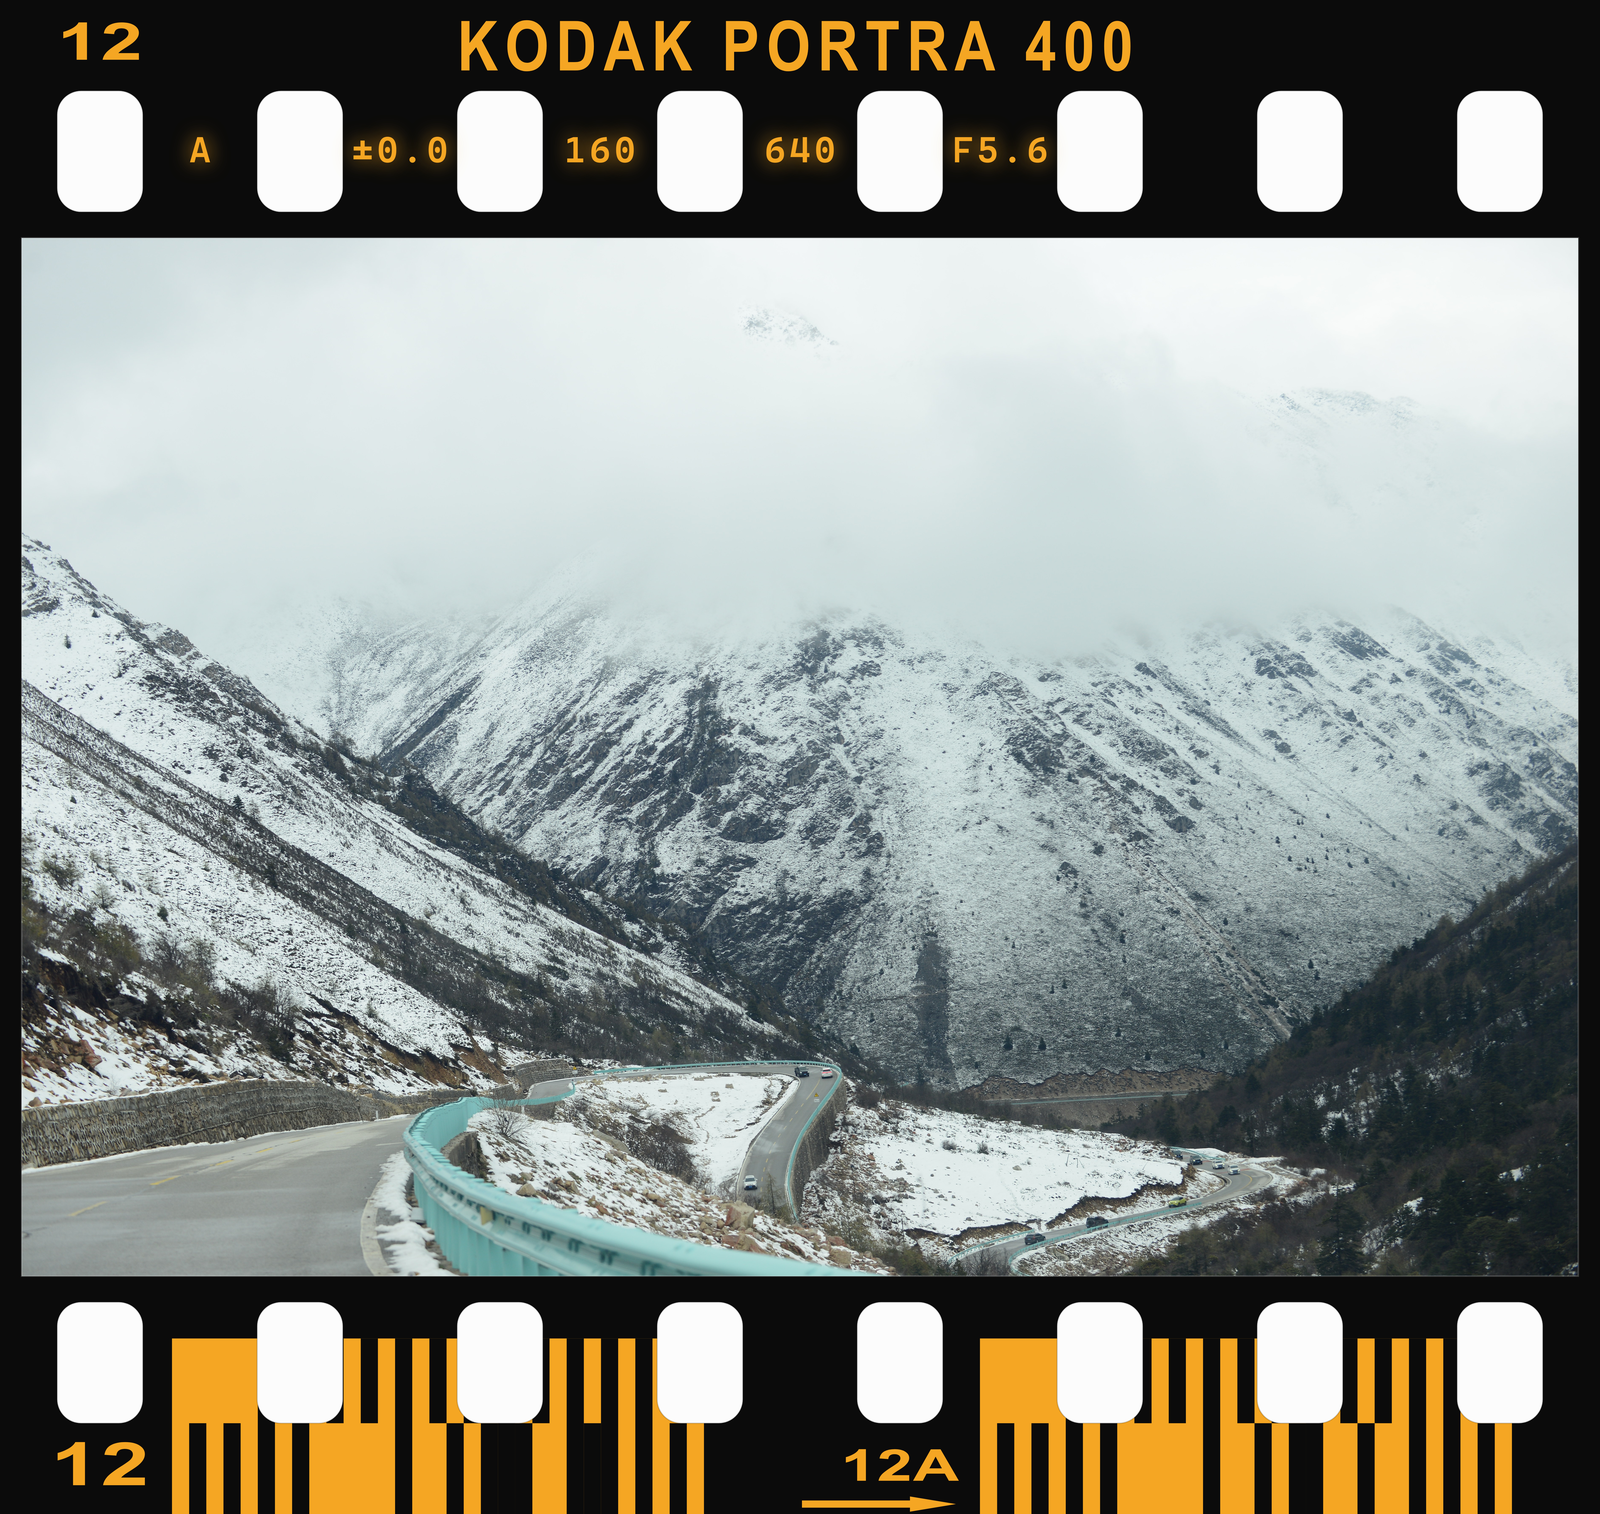
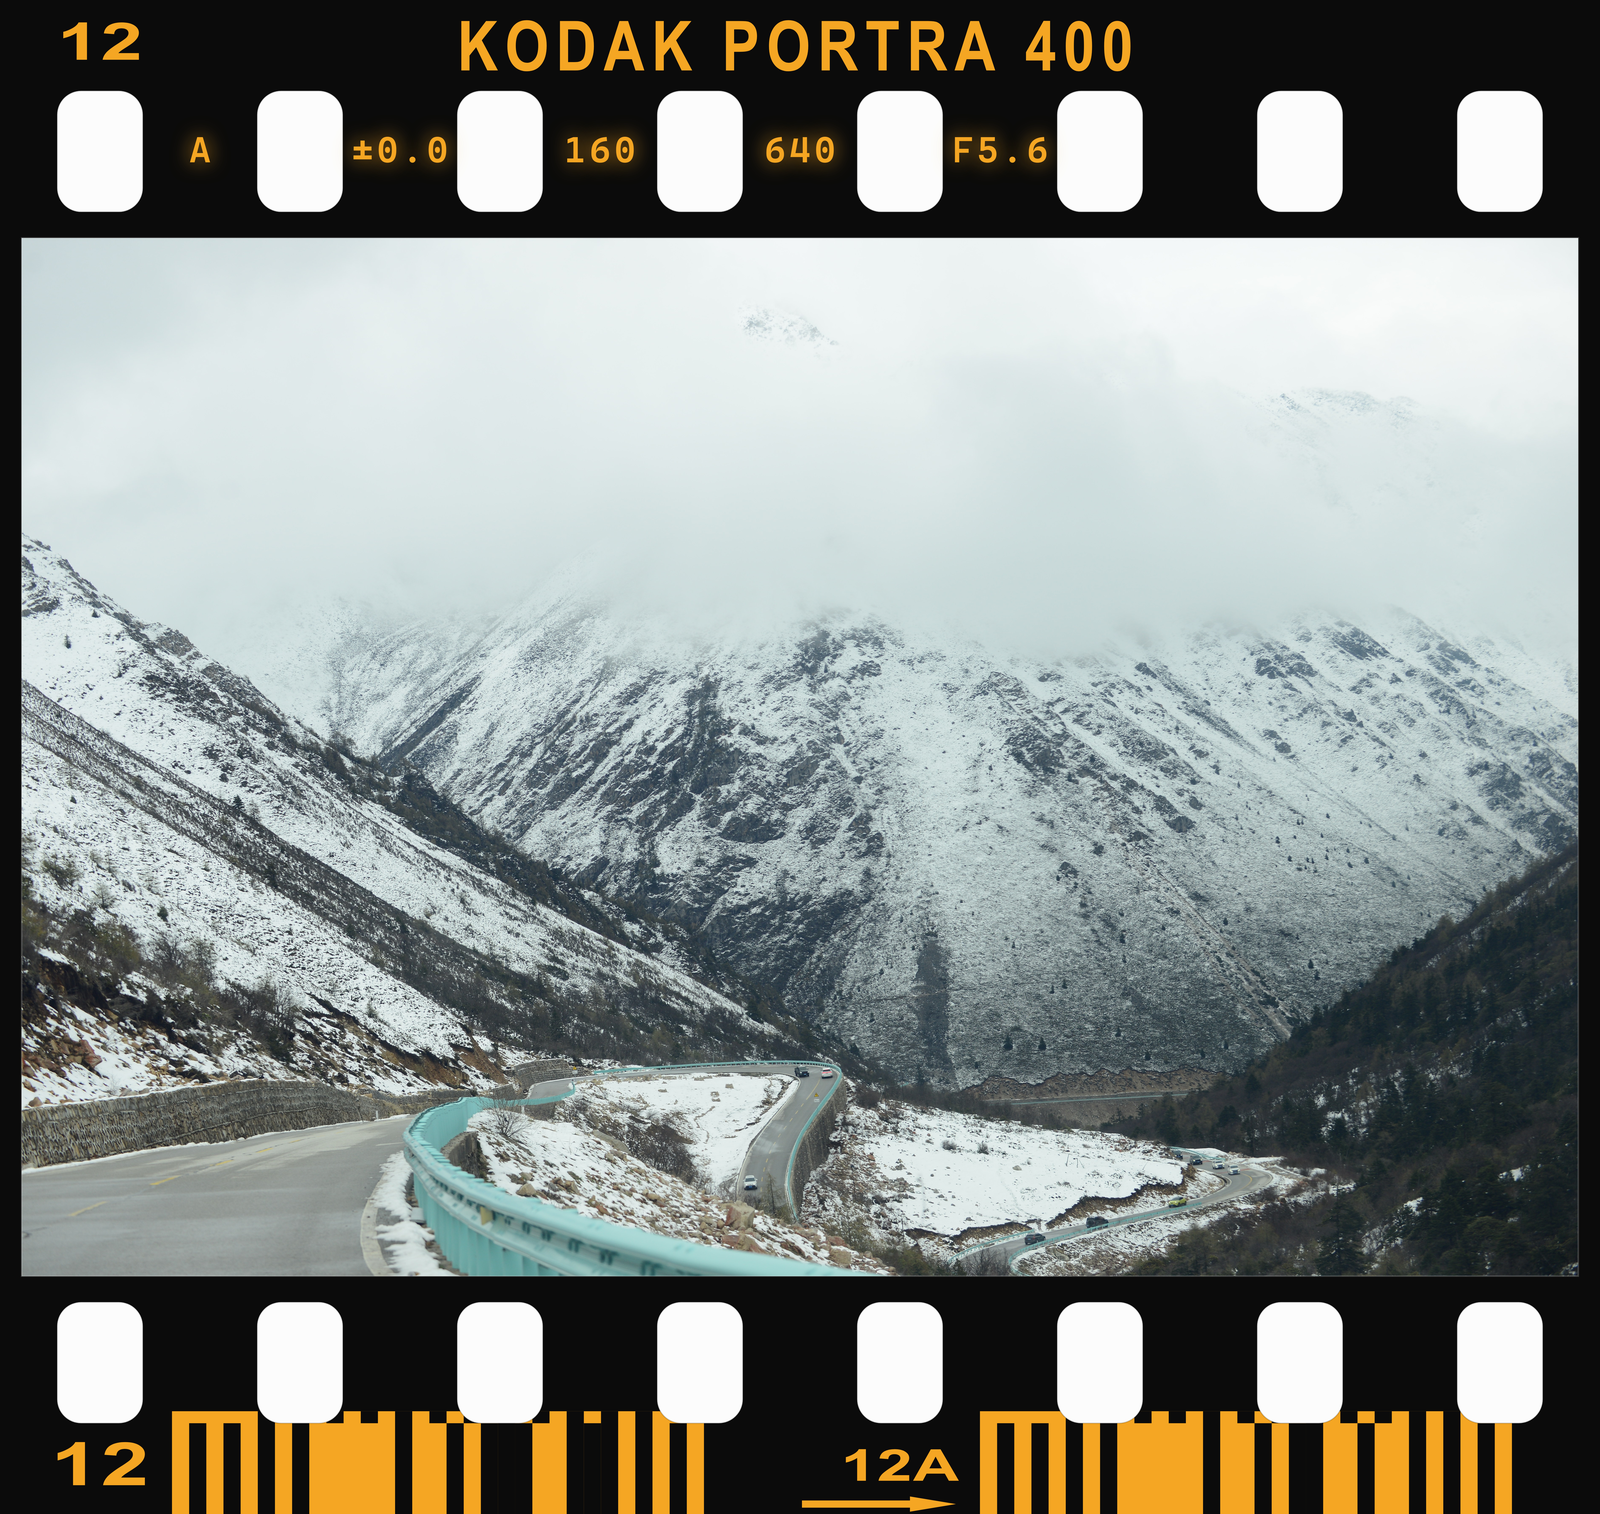
条码上伸改为 0.7 个条宽，边字透明度同时控制片号
- 条码上半截侵入齿孔区高度从 0.7 孔高改为 0.7 个条码列宽
- 片号不再固定不透明度，统一受边字透明度滑块控制
- 同步测试、README 与 Portra 截图

diff --git a/js/layout.js b/js/layout.js
@@ -1324,7 +1324,7 @@
       if (!pattern) return;
       var unit = (step * 2.66) / pattern.length;
       var lowerTop = F - outerBand;              // 下齿孔下边沿
-      var upperTop = lowerTop - holeAcross * 0.7; // 上半截侵入齿孔区
+      var upperTop = lowerTop - unit * 0.7; // 上半截侵入齿孔区 = 0.7 个条码列宽
       var paint = edgeOpacity >= 0.999 ? edgeColor : rgba(edgeColor, edgeOpacity);
       // 先铺一条 3333 的实心条，再用片基色遮出 0/1/2，保证列间绝无缝隙。
       ops.push({
@@ -1401,7 +1401,7 @@
       var base = k * cycleLen;
       var num = ((info.start - 1 + k) % 36 + 36) % 36 + 1;
       edgeTextAt(String(num), base + holeCenter(0), bandY(true), step * 0.26, step * 0.95,
-        'center', EDGE_NUM_FONT, 600, 0.02, 1.45, 1);
+        'center', EDGE_NUM_FONT, 600, 0.02, 1.45);
       var stockStartHole = style.stockHoles[0];
       var stockEndHole = style.stockHoles[1];
       var stockStart = base + holeCenter(stockStartHole) - holeAlong / 2;
@@ -1419,13 +1419,13 @@
 
       var bottomY = bandY(false);
       edgeTextAt(String(num), base + holeCenter(0), bottomY, step * 0.30, step * 0.95,
-        'center', EDGE_NUM_FONT, 600, 0.02, 1.45, 1);
+        'center', EDGE_NUM_FONT, 600, 0.02, 1.45);
       if (style.barcode1) {
         edgeBarcode(style.barcode1, base + holeCenter(0) + step * 0.36, false);
       }
       var aHole = style.aHole;
       edgeTextAt(String(num) + 'A', base + holeCenter(aHole), bottomY,
-        step * 0.22, step * 0.95, 'center', EDGE_NUM_FONT, 600, 0.01, 1.45, 1);
+        step * 0.22, step * 0.95, 'center', EDGE_NUM_FONT, 600, 0.01, 1.45);
       if (style.barcode2) {
         edgeBarcode(style.barcode2,
           base + holeCenter(style.aHole) + step * 0.40, false);

diff --git a/README.md b/README.md
@@ -129,8 +129,8 @@ node server.mjs
       - 上侧：片号（如 `9`）在**第 1 个上孔正上方**；`KODAK PORTRA 400` 从**第 3 孔左上**到**第 6 孔右上**；第 9 孔开始下一个片号（`10`）。
       - 下侧：片号（如 `9`）在**第 1 个下孔正下方**；第一段条码从**第 1 孔右下**到**第 4 孔下方**；**第 5 孔正下方是 A 片号**（如 `9A`，比普通片号小一点），A 片号下面有**右向箭头**；第二段条码从**第 5 孔右下**到**第 8/9 孔之间**；第 9 孔开始下一个循环。
     - 两段条码内容固定为 `3232303031313031212021302030323` 与 `3232303031313031212031213030323`（各 31 列），逐列渲染：`3` 满高、`2` 上半高、`1` 下半高、`0` 空；每列宽 = 2.66P / 31；实现上先铺一条全 `3` 的实心条，再用片基色遮出 `0/1/2`，因此列间**绝对没有缝隙**，`0` 与 `1/2/3` 等宽，相邻非 0 列自然合并成实心块。
-    - 条码带从**孔下缘**贴到**片边**：下半截 = 孔下缘到片边；上半截再向上伸入齿孔区约 **0.7 个齿孔高**，被后画的齿孔自然裁掉。
-    - 片号使用 **Arial Bold + 1.45 倍横向拉伸**（更扁更宽，`0` 是干净椭圆，`1` 没有底横）；胶卷名使用 **Arial Narrow Bold**。片号、A 片号、胶卷名、条码、箭头统一为亮金橙 `#F5A623`（边字的颜色/亮度会随冲扫、翻拍、校色变化，这里只固定样式）。片号不透明度为 1；另有**边字透明度**滑块可整体调淡。
+    - 条码带从**孔下缘**贴到**片边**：下半截 = 孔下缘到片边；上半截再向上伸入齿孔区约 **0.7 个条码列宽**，被后画的齿孔自然裁掉。
+    - 片号使用 **Arial Bold + 1.45 倍横向拉伸**（更扁更宽，`0` 是干净椭圆，`1` 没有底横）；胶卷名使用 **Arial Narrow Bold**。片号、A 片号、胶卷名、条码、箭头统一为亮金橙 `#F5A623`（边字的颜色/亮度会随冲扫、翻拍、校色变化，这里只固定样式）。片号、胶卷名、条码、箭头统一受「边字透明度」滑块控制（片号不再单独固定不透明度）。
     - 片号 cap 高度：上侧 0.243P、下侧 0.28P、A 号 0.20P；箭头是**填充多边形**（尖头，不是粗线段），总长 0.77P、杆厚 0.042P、头长 0.25P，贴片边且右端与 A 号右缘对齐。
     - 长图上片号每 8 孔递增，胶卷名与两段条码不断重复；**首尾不内缩、也不把文字压缩进画布**，贴边内容直接允许被片边裁切（竖图/短片上 `KODAK PORTRA 400` 被切断是正常的）。
   - **HP5** 使用自己的白字边字样式（独立的循环、字号与布局，没有 Portra 的橙色条码与箭头），后续可直接按真实 HP5 扫描继续细化。
